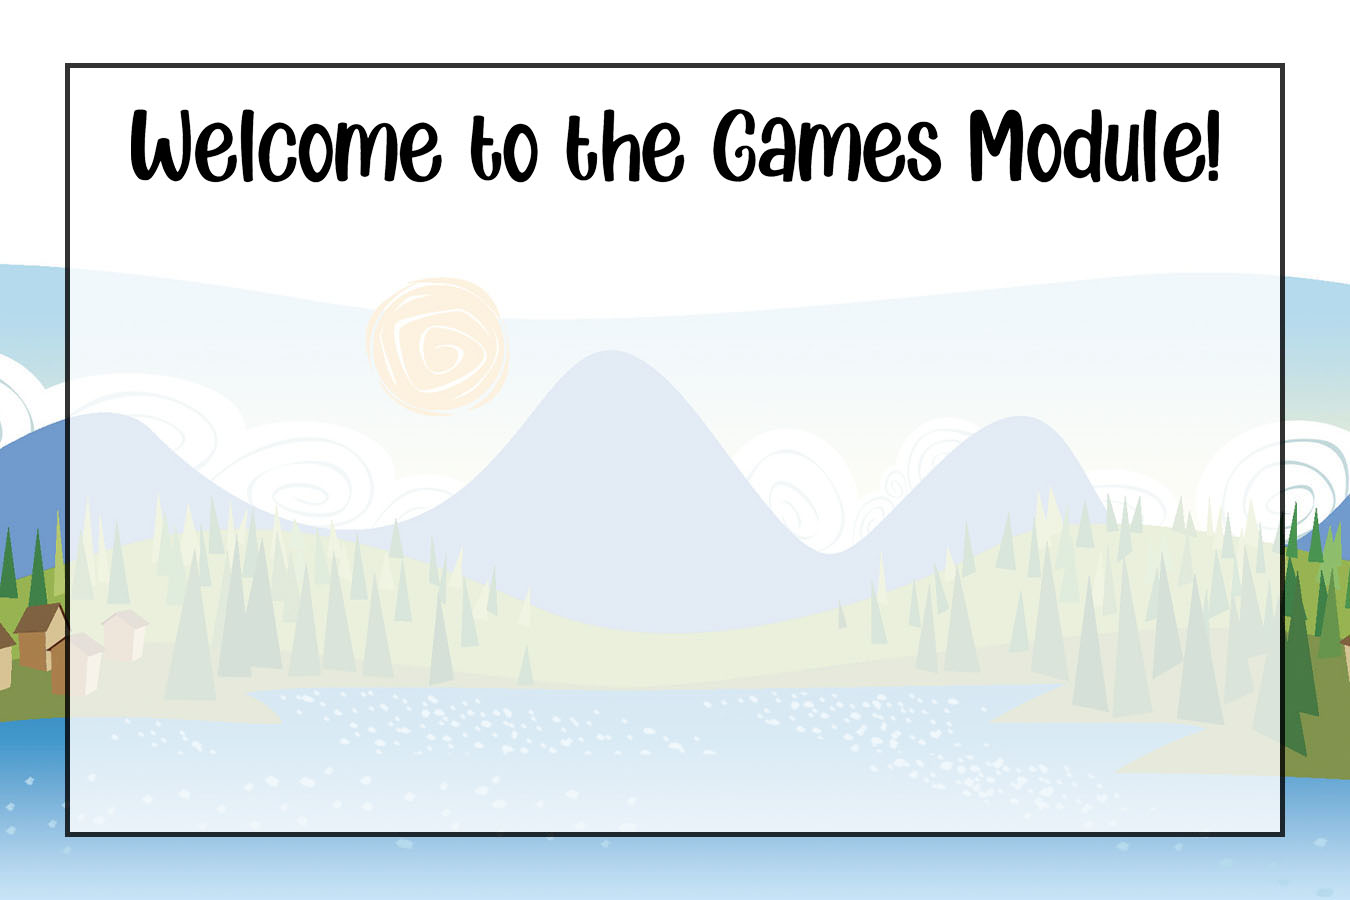
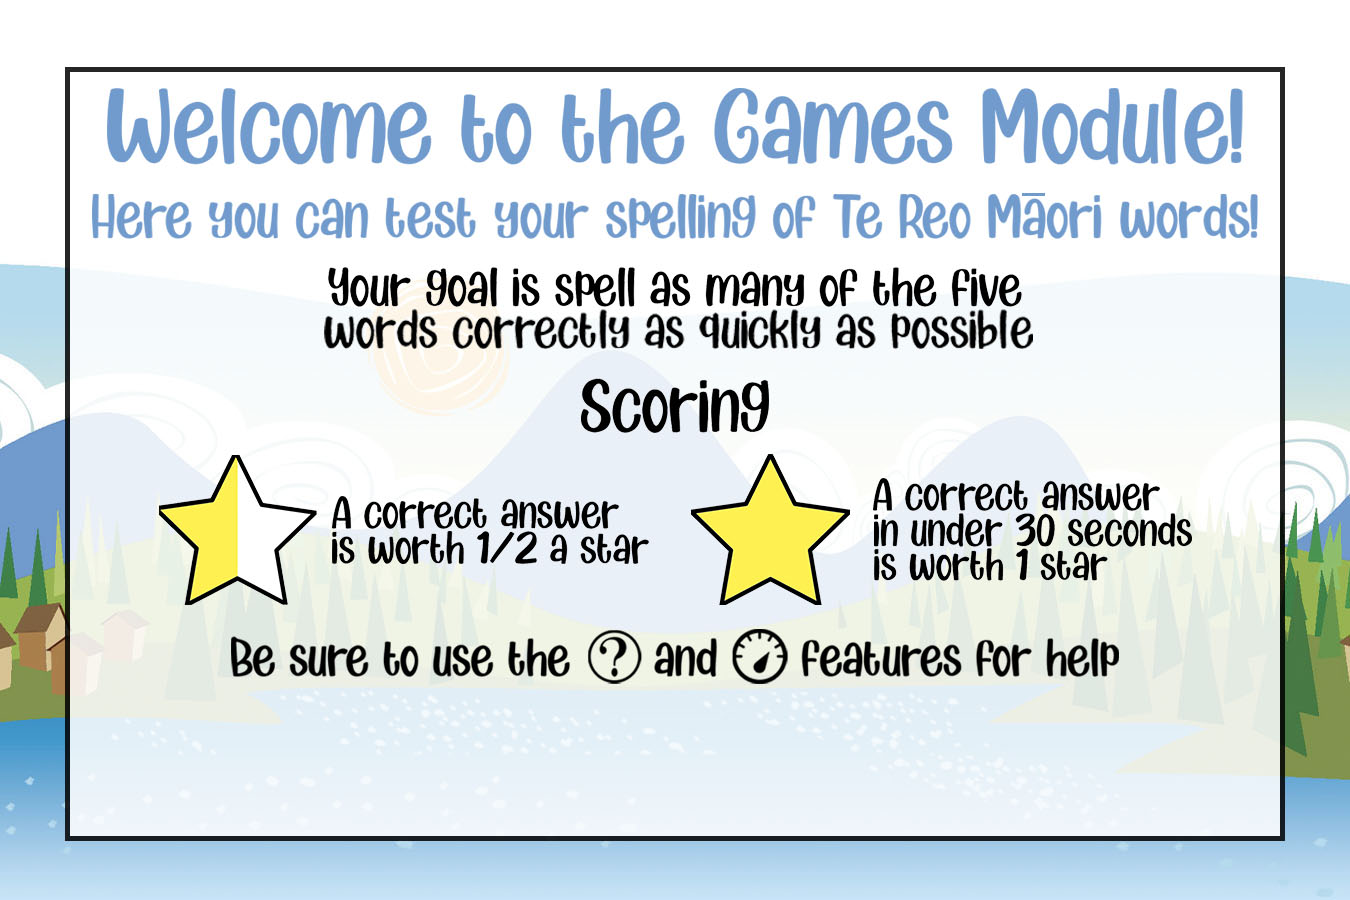
Added games module instructions in both languages

diff --git a/SpellingWiz/src/application/GamesModule.java b/SpellingWiz/src/application/GamesModule.java
@@ -95,6 +95,7 @@ public class GamesModule extends Controller {
 		exitSkip(event);
 		exitStart(event);
 		exitSubmit(event);
+		instruction.setImage(new Image("./gamesInstructions"+langExt+".jpg"));
 	}
 
 	/**
